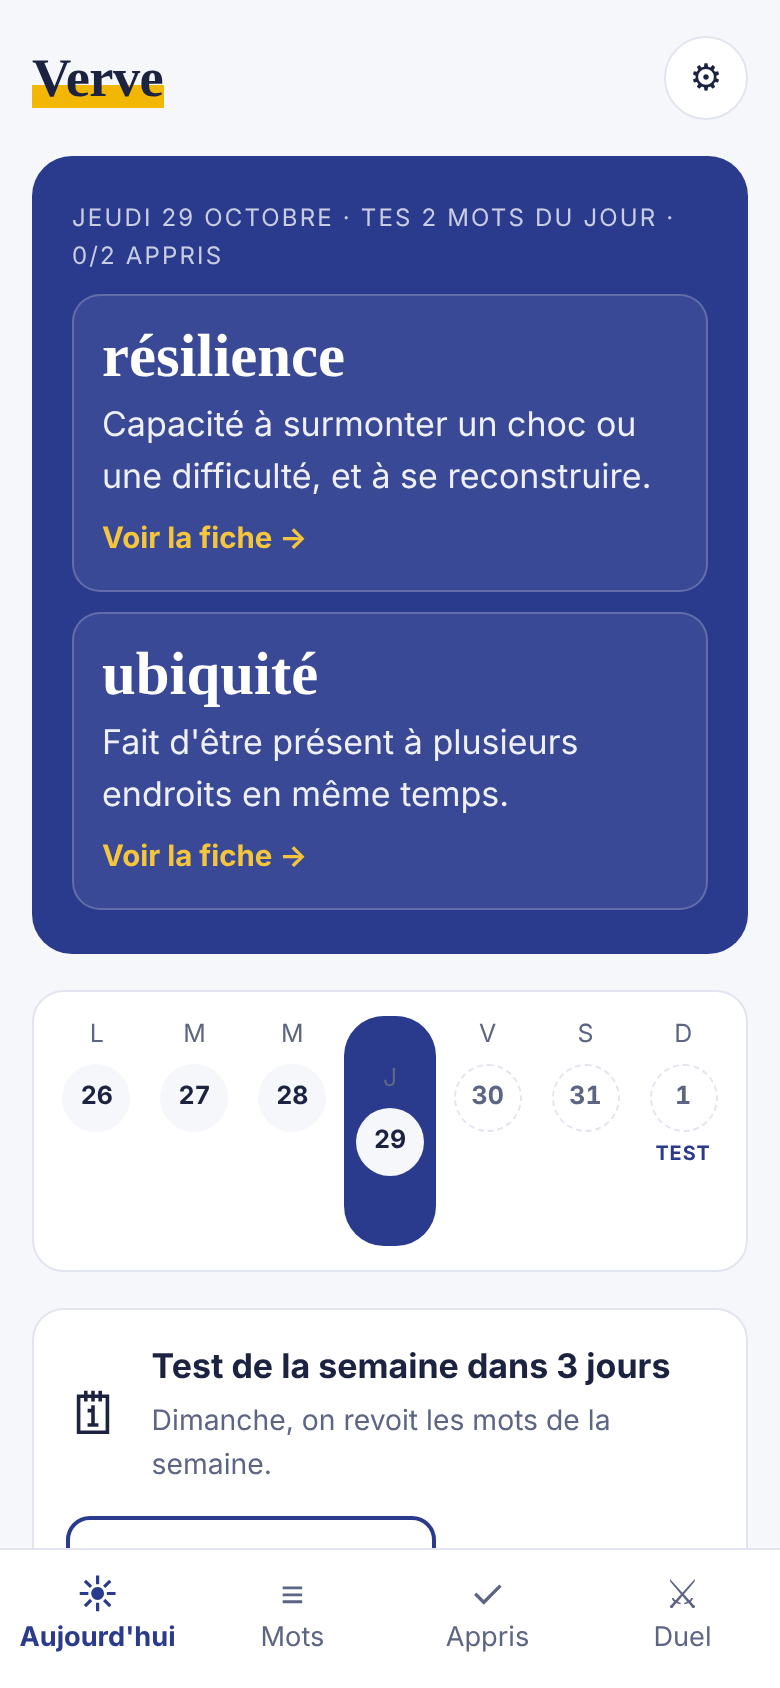
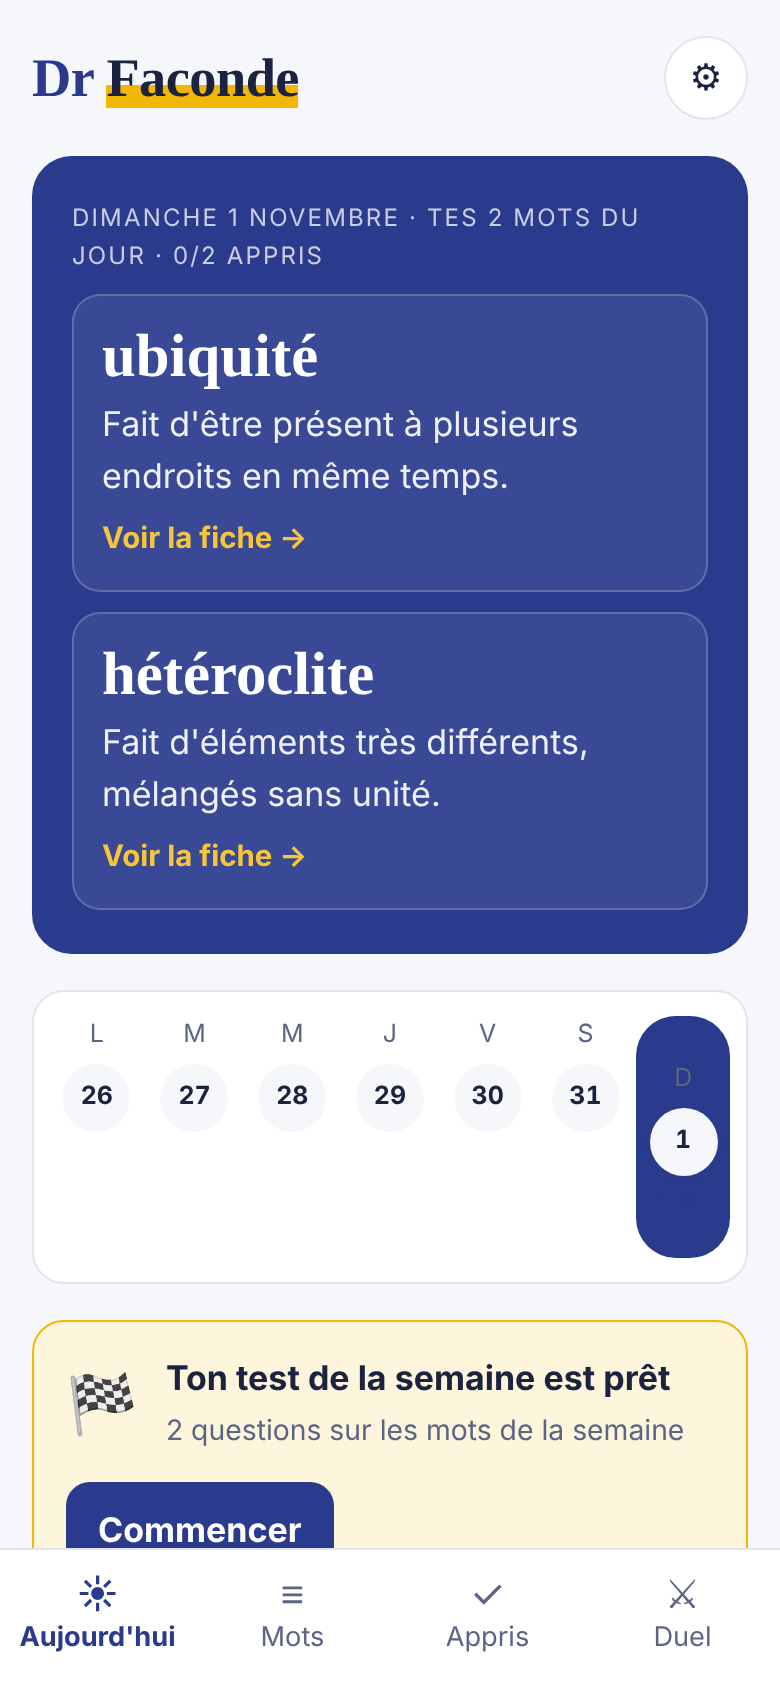
Le site passe au nom Dr Faconde ; mention de la marque FACONDE
Claude-Session: https://claude.ai/code/session_011PQp8PNWMBac4bXeRPK76K

diff --git a/confidentialite.html b/confidentialite.html
@@ -6,16 +6,16 @@
 <link rel="preconnect" href="https://fonts.googleapis.com">
 <link rel="stylesheet" href="https://fonts.googleapis.com/css2?family=Fraunces:opsz,wght@9..144,700&family=Atkinson+Hyperlegible:wght@400;700&display=swap">
 <link rel="stylesheet" href="style.css">
-<title>Confidentialité – Verve</title>
-<meta name="description" content="Politique de confidentialité de l'application Verve.">
+<title>Confidentialité – Dr Faconde</title>
+<meta name="description" content="Politique de confidentialité de l'application Dr Faconde.">
 </head>
 <body>
-<header class="top wrap"><a class="logo" href="./">Verve</a><nav class="top"><a href="confidentialite.html">Confidentialité</a><a href="mentions-legales.html">Mentions légales</a></nav></header>
+<header class="top wrap"><a class="logo" href="./">Dr Faconde</a><nav class="top"><a href="confidentialite.html">Confidentialité</a><a href="mentions-legales.html">Mentions légales</a></nav></header>
 <main class="wrap doc">
 <h1>Politique de confidentialité</h1>
 <p class="maj">Dernière mise à jour : 29 octobre 2026</p>
 
-<p>Verve est conçue pour collecter le moins de données possible. Il n'y a pas de compte avec adresse e-mail, pas de nom réel, pas de photo, pas de géolocalisation, et aucun accès à tes contacts.</p>
+<p>Dr Faconde est conçue pour collecter le moins de données possible. Il n'y a pas de compte avec adresse e-mail, pas de nom réel, pas de photo, pas de géolocalisation, et aucun accès à tes contacts.</p>
 
 <h2>Qui est responsable de tes données ?</h2>
 <p>HASCONNECT (SASU), 10 rue de Lapeyrouse, 97615 Pamandzi, France. Contact : <a href="mailto:lartdesmots.app@gmail.com">lartdesmots.app@gmail.com</a>.</p>
@@ -42,7 +42,7 @@
 <p>Sur les serveurs de Google Firebase. Google peut traiter ces données en dehors de l'Union européenne ; ces transferts sont encadrés par les garanties prévues par le RGPD (clauses contractuelles types de la Commission européenne).</p>
 
 <h2>Les plus jeunes</h2>
-<p>Verve s'adresse aux adolescents et aux adultes. Si tu as moins de 15 ans, parles-en à tes parents avant d'utiliser les duels. Un parent peut nous écrire à tout moment pour faire effacer les données de son enfant.</p>
+<p>Dr Faconde s'adresse aux adolescents et aux adultes. Si tu as moins de 15 ans, parles-en à tes parents avant d'utiliser les duels. Un parent peut nous écrire à tout moment pour faire effacer les données de son enfant.</p>
 
 <h2>Tes droits</h2>
 <p>Tu peux demander à accéder à tes données, à les corriger ou à les faire effacer, en écrivant à <a href="mailto:lartdesmots.app@gmail.com">lartdesmots.app@gmail.com</a> et en indiquant ton pseudo. Nous répondons sous un mois au plus. Si tu n'es pas satisfait de notre réponse, tu peux adresser une réclamation à la CNIL (<a href="https://www.cnil.fr">www.cnil.fr</a>).</p>
@@ -50,6 +50,6 @@
 <h2>Modifications</h2>
 <p>Cette politique peut évoluer avec l'application. La date de dernière mise à jour est indiquée en haut de la page.</p>
 </main>
-<footer><div class="wrap"><p><a href="./">Accueil</a><a href="confidentialite.html">Confidentialité</a><a href="mentions-legales.html">Mentions légales</a><a href="mailto:lartdesmots.app@gmail.com">Contact</a></p><p>Verve est une application éditée par HASCONNECT.</p></div></footer>
+<footer><div class="wrap"><p><a href="./">Accueil</a><a href="confidentialite.html">Confidentialité</a><a href="mentions-legales.html">Mentions légales</a><a href="mailto:lartdesmots.app@gmail.com">Contact</a></p><p>Dr Faconde est une application éditée par HASCONNECT.</p></div></footer>
 </body>
 </html>

diff --git a/index.html b/index.html
@@ -6,15 +6,15 @@
 <link rel="preconnect" href="https://fonts.googleapis.com">
 <link rel="stylesheet" href="https://fonts.googleapis.com/css2?family=Fraunces:opsz,wght@9..144,700&family=Atkinson+Hyperlegible:wght@400;700&display=swap">
 <link rel="stylesheet" href="style.css">
-<title>Verve – Dis-le !</title>
-<meta name="description" content="Verve, l'application pour enrichir son vocabulaire : des mots utiles et peu courants chaque jour, leur origine, un test chaque dimanche et des duels entre joueurs.">
+<title>Dr Faconde – Dis-le !</title>
+<meta name="description" content="Dr Faconde, l'application pour enrichir son vocabulaire : des mots utiles et peu courants chaque jour, leur origine, un test chaque dimanche et des duels entre joueurs.">
 </head>
 <body>
-<header class="top wrap"><a class="logo" href="./">Verve</a><nav class="top"><a href="confidentialite.html">Confidentialité</a><a href="mentions-legales.html">Mentions légales</a></nav></header>
+<header class="top wrap"><a class="logo" href="./">Dr Faconde</a><nav class="top"><a href="confidentialite.html">Confidentialité</a><a href="mentions-legales.html">Mentions légales</a></nav></header>
 <main class="wrap">
   <section class="hero">
     <h1>Des mots qui ont <em>du style</em>.</h1>
-    <p>Verve t'apprend chaque jour des mots utiles mais peu courants : leur sens, leur origine, leur orthographe, un exemple et les pièges à éviter. Pour parler avec plus d'aisance, à l'école, au travail ou entre amis.</p>
+    <p>Dr Faconde t'apprend chaque jour des mots utiles mais peu courants : leur sens, leur origine, leur orthographe, un exemple et les pièges à éviter. Pour parler avec plus d'aisance, à l'école, au travail ou entre amis.</p>
     <span class="badge">Bientôt sur Android · version de test en cours</span>
   </section>
 
@@ -34,6 +34,6 @@
   <h2>Une question, une idée ?</h2>
   <p>Écris-nous à <a href="mailto:lartdesmots.app@gmail.com">lartdesmots.app@gmail.com</a>. Tu peux aussi donner ton avis directement depuis l'appli.</p>
 </main>
-<footer><div class="wrap"><p><a href="./">Accueil</a><a href="confidentialite.html">Confidentialité</a><a href="mentions-legales.html">Mentions légales</a><a href="mailto:lartdesmots.app@gmail.com">Contact</a></p><p>Verve est une application éditée par HASCONNECT.</p></div></footer>
+<footer><div class="wrap"><p><a href="./">Accueil</a><a href="confidentialite.html">Confidentialité</a><a href="mentions-legales.html">Mentions légales</a><a href="mailto:lartdesmots.app@gmail.com">Contact</a></p><p>Dr Faconde est une application éditée par HASCONNECT.</p></div></footer>
 </body>
 </html>

diff --git a/mentions-legales.html b/mentions-legales.html
@@ -6,11 +6,11 @@
 <link rel="preconnect" href="https://fonts.googleapis.com">
 <link rel="stylesheet" href="https://fonts.googleapis.com/css2?family=Fraunces:opsz,wght@9..144,700&family=Atkinson+Hyperlegible:wght@400;700&display=swap">
 <link rel="stylesheet" href="style.css">
-<title>Mentions légales – Verve</title>
-<meta name="description" content="Mentions légales du site de l'application Verve.">
+<title>Mentions légales – Dr Faconde</title>
+<meta name="description" content="Mentions légales du site de l'application Dr Faconde.">
 </head>
 <body>
-<header class="top wrap"><a class="logo" href="./">Verve</a><nav class="top"><a href="confidentialite.html">Confidentialité</a><a href="mentions-legales.html">Mentions légales</a></nav></header>
+<header class="top wrap"><a class="logo" href="./">Dr Faconde</a><nav class="top"><a href="confidentialite.html">Confidentialité</a><a href="mentions-legales.html">Mentions légales</a></nav></header>
 <main class="wrap doc">
 <h1>Mentions légales</h1>
 <h2>Éditeur</h2>
@@ -19,9 +19,11 @@
 <p>Le Président de HASCONNECT</p>
 <h2>Hébergement</h2>
 <p>Site : GitHub Pages, GitHub, Inc., 88 Colin P. Kelly Jr. Street, San Francisco, CA 94107, États-Unis.<br>Données de l'application : Google Firebase, Google Ireland Limited, Gordon House, Barrow Street, Dublin 4, Irlande.</p>
+<h2>Marque</h2>
+<p>« FACONDE » est une marque déposée par HASCONNECT auprès de l'INPI (demande n° 5315566 du 1er novembre 2026).</p>
 <h2>Contenus</h2>
 <p>Les définitions et fiches de l'application sont rédigées par l'éditeur. Les sources utilisées pour les vérifier sont citées dans chaque fiche.</p>
 </main>
-<footer><div class="wrap"><p><a href="./">Accueil</a><a href="confidentialite.html">Confidentialité</a><a href="mentions-legales.html">Mentions légales</a><a href="mailto:lartdesmots.app@gmail.com">Contact</a></p><p>Verve est une application éditée par HASCONNECT.</p></div></footer>
+<footer><div class="wrap"><p><a href="./">Accueil</a><a href="confidentialite.html">Confidentialité</a><a href="mentions-legales.html">Mentions légales</a><a href="mailto:lartdesmots.app@gmail.com">Contact</a></p><p>Dr Faconde est une application éditée par HASCONNECT.</p></div></footer>
 </body>
 </html>

diff --git a/README.md b/README.md
@@ -1,5 +1,5 @@
-# Verve
+# Dr Faconde
 
-Site de présentation de l'application Verve : présentation, politique de confidentialité et mentions légales.
+Site de présentation de l'application Dr Faconde : présentation, politique de confidentialité et mentions légales.
 
 https://arrelano.github.io/lartdesmots/
